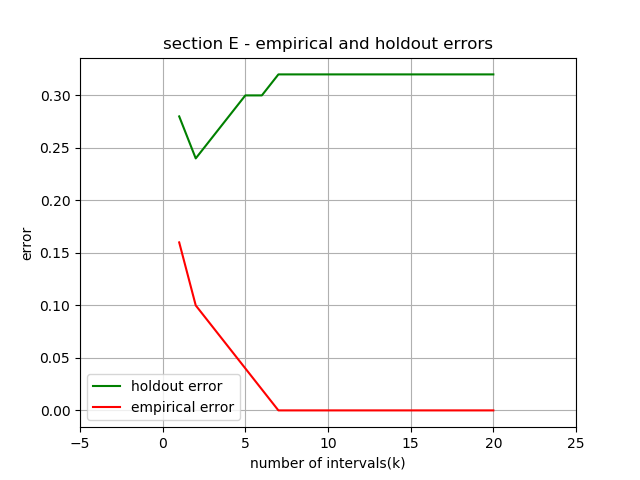
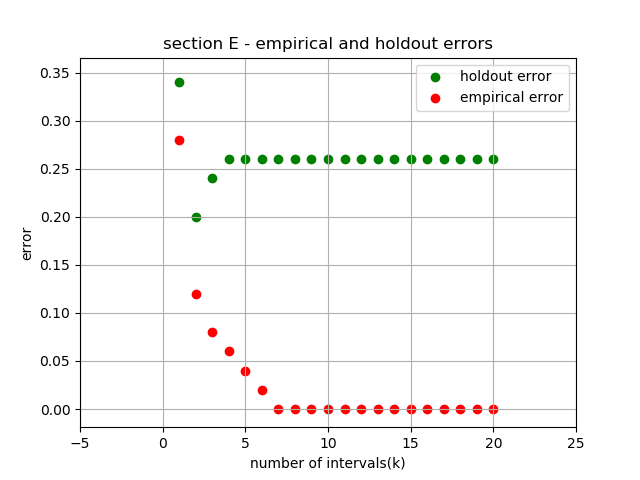
changed to points to see k with lowest holdout error

diff --git a/Ex2/Intervals/SubsectionE.py b/Ex2/Intervals/SubsectionE.py
@@ -5,8 +5,8 @@ import matplotlib.pyplot as plt
 
 def plot(esK, esHoldoutK, K):
 
-    plt.plot(K, esHoldoutK, 'g', label='holdout error')
-    plt.plot(K, esK, 'r', label='empirical error')
+    plt.scatter(K, esHoldoutK, color='g', label='holdout error')
+    plt.scatter(K, esK, color='r', label='empirical error')
     plt.xlim([-5, 25])
     plt.xlabel('number of intervals(k)')
     plt.ylabel('error')
